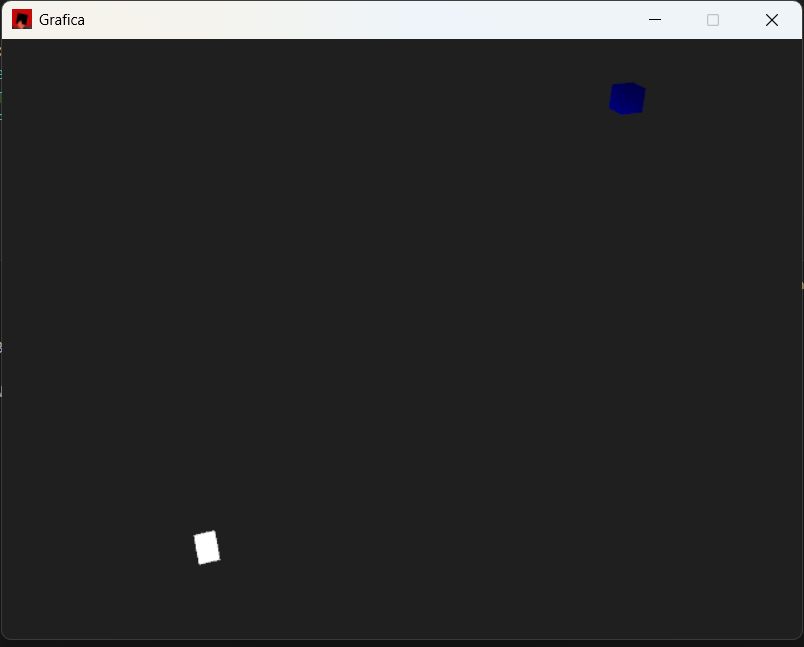
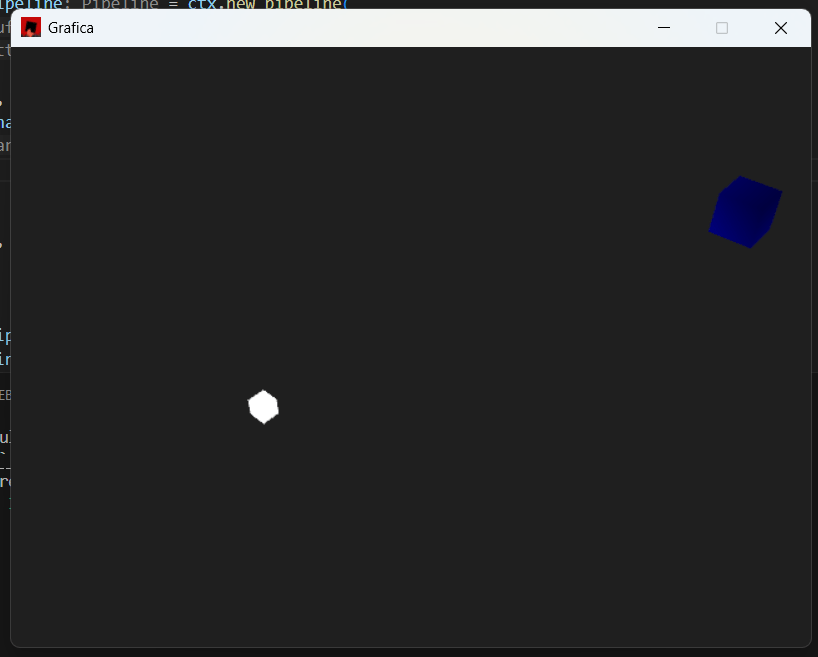
feat(assigment2): Make it spin. Done.

diff --git a/src/main.rs b/src/main.rs
@@ -5,20 +5,19 @@ mod cube_shader;
 mod cube;
 mod transform;
 
-struct App
-{
+struct App {
     pipeline: Pipeline,
     bindings: Bindings,
     ctx: Box<dyn RenderingBackend>,
+    angle: f32,
 }
 
 impl App
 {
-    pub fn new() -> App
-    {
+    pub fn new() -> App {
         let mut ctx: Box<dyn RenderingBackend> = window::new_rendering_backend();
         log::info!("OpenGL Version: {}", ctx.info().gl_version_string);
-
+    
         let vertex_buffer = ctx.new_buffer(
             BufferType::VertexBuffer,
             BufferUsage::Immutable,
@@ -29,13 +28,13 @@ impl App
             BufferUsage::Immutable,
             BufferSource::slice(&cube::INDICES),
         );
-
+    
         let bindings = Bindings {
             vertex_buffers: vec![vertex_buffer],
             index_buffer: index_buffer,
             images: vec![],
         };
-
+    
         let shader = ctx
             .new_shader(
                 match ctx.info().backend {
@@ -46,21 +45,26 @@ impl App
                     Backend::Metal => panic!("Metal not supported!"),
                 },
                 cube_shader::meta(),
-            ).expect("Could not compile passthrough_shader");
-
+            ).expect("Could not compile cube_shader");
+    
         let pipeline = ctx.new_pipeline(
             &[BufferLayout::default()],
             &[
                 VertexAttribute::new("vertex_pos", VertexFormat::Float4)
             ],
             shader,
-            PipelineParams::default(),
+            PipelineParams {
+                depth_test: Comparison::LessOrEqual,
+                depth_write: true,
+                ..Default::default()
+            },
         );
-
+    
         App {
             pipeline,
             bindings,
             ctx,
+            angle: 0.0,
         }
     }
 }
@@ -69,7 +73,7 @@ impl EventHandler for App
 {
     fn update(&mut self)
     {
-
+        self.angle += 0.001 * 360.;
     }
 
     fn draw(&mut self)
@@ -77,22 +81,30 @@ impl EventHandler for App
         // Clear the screen with nice defaults.
         self.ctx.begin_default_pass(PassAction::Clear {
             color: Some((0.12, 0.12, 0.12, 1.0)),
-            depth: Default::default(),
+            depth: Some(1.0),
             stencil: Default::default()
         });
 
         // Calculate the camera's matrixes.
         let (width, height) = window::screen_size();
         let camera_projection = glam::Mat4::perspective_rh_gl(
-            40.0f32.to_radians(), 
-            width / height, 
-            0.01, 50.0
+            40.0f32.to_radians(),
+            width / height,
+            0.01,
+            50.0,
         );
+        
+        // Orbit around Y axis at a fixed radius
+        let radius = 30.0;
+        let cam_x = self.angle.to_radians().cos() * radius;
+        let cam_z = self.angle.to_radians().sin() * radius;
+        
         let camera_view = glam::Mat4::look_at_rh(
-            glam::vec3(30.0, 30.0, 0.0),
-            glam::vec3(0.0, 10.0, -10.0),
-            glam::vec3(0.0, 1.0, 0.0),
+            glam::vec3(cam_x, 30.0, cam_z),             // orbiting position
+            glam::vec3(0.0, 10.0, -10.0),       // target
+            glam::vec3(0.0, 1.0, 0.0),              // up
         );
+        
         let vp = camera_projection * camera_view;
 
         // Apply our pipelines.
@@ -144,14 +156,6 @@ fn main()
     conf.window_height = 480;
     conf.window_resizable = false;
     conf.platform.swap_interval = Some(1);
-
-    // Use Metal on Apple devices if it has been given as an argument.
-    /*let metal = std::env::args().nth(1).as_deref() == Some("metal");
-    conf.platform.apple_gfx_api = if metal {
-        conf::AppleGfxApi::Metal
-    } else {
-        conf::AppleGfxApi::OpenGl
-    };*/
 
     // Start window.
     miniquad::start(conf, move || Box::new(App::new()));
